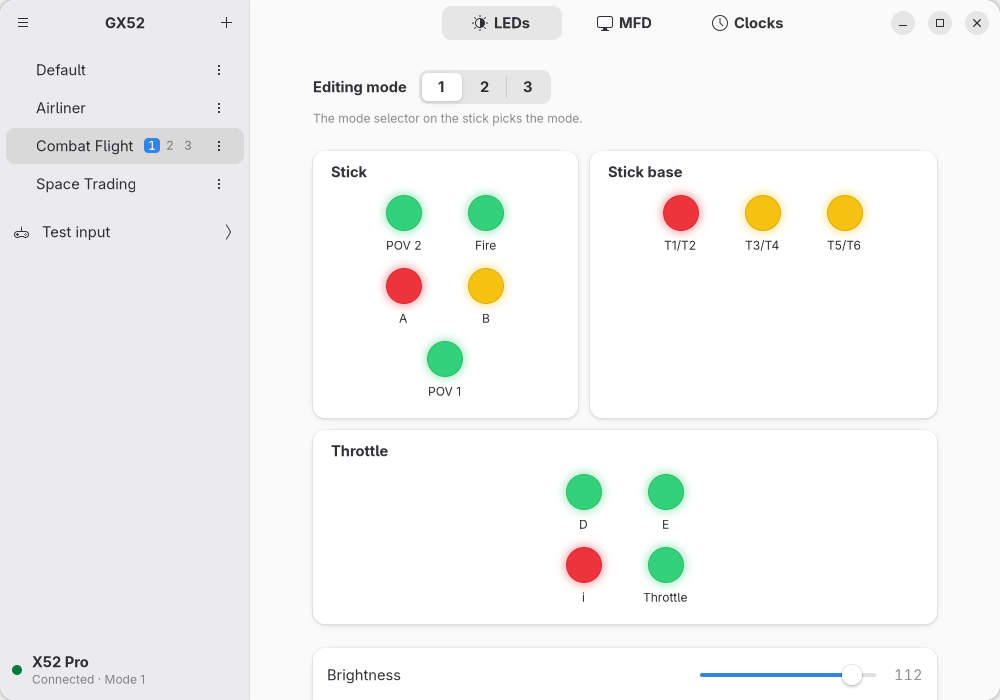
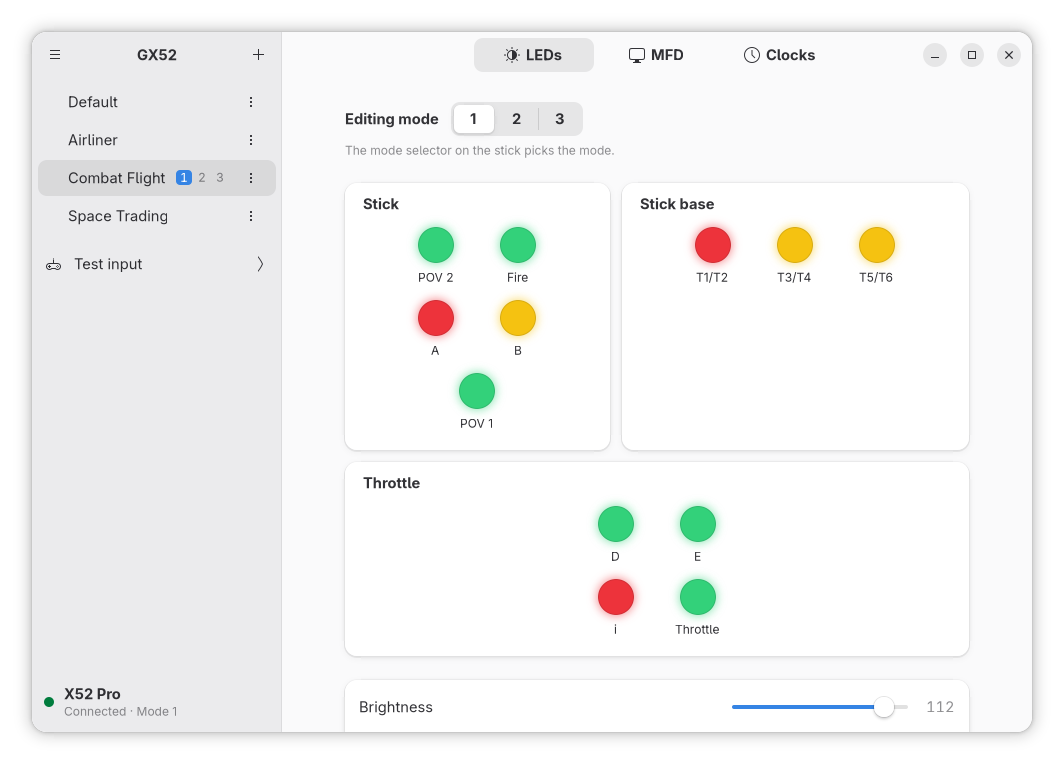
fix(metainfo): use grey brand colours and show the window's corners and shadow
Flathub's quality guidelines: the blue brand colours blended with the blue icon, so they are GNOME greys now (#deddda light, #3d3846 dark); and screenshots include the window's rounded corners and shadow. The capture rounds the corners at libadwaita's 15 px window radius and draws its window.csd shadow on a transparent margin, as the headless compositor shows the window tiled. The five screenshots are regenerated.

diff --git a/src/screenshots/capture.rs b/src/screenshots/capture.rs
@@ -28,7 +28,7 @@ use std::time::Duration;
 
 use adw::prelude::*;
 use adw::subclass::prelude::*;
-use gtk::{gdk, glib};
+use gtk::{gdk, glib, graphene, gsk};
 use x52::device::DeviceType;
 use x52::input::Mode;
 
@@ -373,22 +373,63 @@ fn capture(window: &Window, name: &str) -> Result<(), String> {
     Ok(())
 }
 
-/// Renders `window` as it is now and saves it to `path`.
+/// The window's corner radius, libadwaita's `--window-radius`: the headless compositor shows the
+/// window tiled, with square corners, so the shot rounds them itself.
+const CORNER_RADIUS: f32 = 15.0;
+
+/// The transparent border around the window that holds its shadow.
+const SHADOW_MARGIN: f32 = 32.0;
+
+/// libadwaita's `window.csd` box-shadow, outermost first: (opacity, spread, blur radius). Flathub's
+/// quality guidelines ask for the window's shadow and rounded corners in the screenshots.
+const SHADOW: [(f32, f32, f32); 3] = [(0.15, 5.0, 14.0), (0.10, 2.0, 5.0), (0.05, 1.0, 0.0)];
+
+/// Renders `window` as it is now, with rounded corners and libadwaita's window shadow on a
+/// transparent margin, and saves it to `path`.
 fn save_png(window: &Window, path: &Path) -> Result<(), String> {
-    let paintable = gtk::WidgetPaintable::new(Some(window));
-    let snapshot = gtk::Snapshot::new();
-    paintable.snapshot(
-        &snapshot,
-        f64::from(window.width()),
-        f64::from(window.height()),
+    #[expect(
+        clippy::cast_precision_loss,
+        reason = "a window is a few thousand pixels at most, exact in an f32"
+    )]
+    let (width, height) = (window.width() as f32, window.height() as f32);
+    let frame = gsk::RoundedRect::from_rect(
+        graphene::Rect::new(SHADOW_MARGIN, SHADOW_MARGIN, width, height),
+        CORNER_RADIUS,
     );
+    let snapshot = gtk::Snapshot::new();
+    for (opacity, spread, blur) in SHADOW {
+        snapshot.append_outset_shadow(
+            &frame,
+            &gdk::RGBA::new(0.0, 0.0, 0.0, opacity),
+            0.0,
+            0.0,
+            spread,
+            blur,
+        );
+    }
+    snapshot.push_rounded_clip(&frame);
+    snapshot.save();
+    snapshot.translate(&graphene::Point::new(SHADOW_MARGIN, SHADOW_MARGIN));
+    gtk::WidgetPaintable::new(Some(window)).snapshot(
+        &snapshot,
+        f64::from(width),
+        f64::from(height),
+    );
+    snapshot.restore();
+    snapshot.pop();
     let node = snapshot
         .to_node()
         .ok_or_else(|| "the window drew nothing".to_owned())?;
     let renderer = window
         .renderer()
         .ok_or_else(|| "the window has no renderer".to_owned())?;
-    let texture: gdk::Texture = renderer.render_texture(node, None);
+    let viewport = graphene::Rect::new(
+        0.0,
+        0.0,
+        width + 2.0 * SHADOW_MARGIN,
+        height + 2.0 * SHADOW_MARGIN,
+    );
+    let texture: gdk::Texture = renderer.render_texture(node, Some(&viewport));
     texture
         .save_to_png(path)
         .map_err(|error| format!("cannot save {}: {error}", path.display()))
